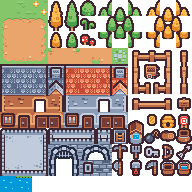
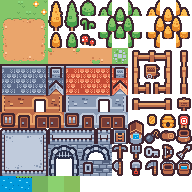
Tonal ground so the village stops reading as a billiard table
Tiny Town ships one grass tile and two flower variants, so ~91% of ~4,800
ground tiles were a single flat green. The existing per-tile hash scattered
wildflowers across it, but scatter is detail, not form: what reads as an
unfinished map is the absence of large-scale tonal variation, and no amount
of confetti fixes that.

`build_assets.py` now derives three tonal grasses from the base tile by
shading it — shadowed, sunlit, and a warmer dry — so they stay exactly on
Kenney's palette rather than being invented colours placed next to it.

The map builder lays them down with smooth value noise (bilinear between
hashed lattice points every 9 tiles, smoothstepped) so tone arrives as
courtyard-sized patches rather than per-tile noise. The wildflower hash still
runs on top, doing the job it was actually good at.

Two passes were needed. The first quantised the noise directly and the four
bands met along straight tile-aligned steps, so the patches rendered as
rectangles — visible immediately on capture. Each tile's tone now takes a
small hash-derived jitter before quantising, which frays those boundaries
while leaving the patch shapes intact, and the shading contrast came down
(0.86/1.10 to 0.90/1.06) so a seam that does survive is quieter.

The noise is deterministic: the village must be identical for every player,
since SPEC §5's adaptive design is the only thing allowed to vary between
sessions.

Verified: BUILD SUCCEEDED; PriorsTests 75/75 in 7 suites; both passes
[…]

Changed region(s): [[0.1562, 0.9062, 0.4375, 1.0]]

diff --git a/Priors/Priors/Priors/Village/VillageMapBuilder.swift b/Priors/Priors/Priors/Village/VillageMapBuilder.swift
@@ -219,7 +219,14 @@ public final class VillageMapBuilder {
         structuresNode.zPosition = 5
         rootNode.addChild(structuresNode)
 
-        // 1. Fill ground with grass (90% lush grass, 10% natural scattered wildflowers)
+        // 1. Fill ground with grass.
+        //
+        // Two scales, because they do different jobs. Low-frequency value
+        // noise lays down broad tonal patches — shadowed hollows, sunlit
+        // rises, dry ground — which is what stops ~4,800 identical tiles
+        // reading as a billiard table. The old per-tile hash is kept on top
+        // for scattered wildflowers, which is detail rather than form; on its
+        // own it was salt-and-pepper over a flat field.
         for r in 0..<Self.mapRows {
             for c in 0..<Self.mapCols {
                 let hashVal = (c * 73 + r * 151) & 0x7FFFFFFF
@@ -229,11 +236,23 @@ public final class VillageMapBuilder {
                 } else if hashVal % 23 == 0 {
                     grassTile = .grassVar2
                 } else {
-                    grassTile = .grass
+                    // Jitter each tile's tone slightly before quantising.
+                    // Without it the four bands meet along straight tile-
+                    // aligned steps and the patches read as rectangles; the
+                    // jitter frays those edges into something organic while
+                    // leaving the underlying patch shape intact.
+                    let jitter = (Double(hashVal % 100) / 100.0 - 0.5) * 0.10
+                    switch Self.groundTone(col: c, row: r) + jitter {
+                    case ..<(-0.18): grassTile = .grassShadow
+                    case 0.22...:    grassTile = .grassSunlit
+                    case 0.06..<0.22: grassTile = .grassDry
+                    default:         grassTile = .grass
+                    }
                 }
                 setGround(c, r, grassTile, code: 0)
             }
         }
+
         _ = assets
 
         // 2. Build Perimeter Boundaries (Dense woods / hedges)
@@ -288,6 +307,37 @@ public final class VillageMapBuilder {
 
     /// A two-tile band of woods around the map, drawn into the canopy layer and
     /// blocked by four rectangles rather than ~560 individual physics bodies.
+    /// Smooth value noise in roughly [-1, 1], deterministic for a given tile.
+    ///
+    /// Bilinear interpolation between hashed lattice points every
+    /// `tonePatchSize` tiles, so tones arrive as patches the size of a
+    /// courtyard rather than as per-tile confetti. Deterministic because the
+    /// village must be identical for every player — SPEC §5's adaptive design
+    /// is the only thing allowed to vary between sessions.
+    private static let tonePatchSize: Double = 9.0
+
+    private static func latticeValue(_ xi: Int, _ yi: Int) -> Double {
+        var h = UInt64(bitPattern: Int64(xi &* 374_761_393 &+ yi &* 668_265_263))
+        h = (h ^ (h >> 13)) &* 1_274_126_177
+        h = h ^ (h >> 16)
+        return Double(h % 2_000) / 1_000.0 - 1.0
+    }
+
+    static func groundTone(col: Int, row: Int) -> Double {
+        let x = Double(col) / tonePatchSize
+        let y = Double(row) / tonePatchSize
+        let x0 = Int(floor(x)), y0 = Int(floor(y))
+        let fx = x - Double(x0), fy = y - Double(y0)
+        // Smoothstep so patch edges are gradients, not seams.
+        let sx = fx * fx * (3 - 2 * fx)
+        let sy = fy * fy * (3 - 2 * fy)
+        let v00 = latticeValue(x0, y0), v10 = latticeValue(x0 + 1, y0)
+        let v01 = latticeValue(x0, y0 + 1), v11 = latticeValue(x0 + 1, y0 + 1)
+        let top = v00 + (v10 - v00) * sx
+        let bottom = v01 + (v11 - v01) * sx
+        return top + (bottom - top) * sy
+    }
+
     private func buildPerimeterBoundaries(in node: SKNode) {
         for c in 0..<Self.mapCols {
             setCanopy(c, 0, .tree)

diff --git a/Priors/Priors/Priors/Village/VillageAssets.swift b/Priors/Priors/Priors/Village/VillageAssets.swift
@@ -46,6 +46,12 @@ public enum TileType: Int, CaseIterable, Sendable {
     case grass = 0
     case grassVar1
     case grassVar2
+    /// Tonal grass, generated by `build_assets.py` from the base tile. Tiny
+    /// Town ships one flat green, so a map filled with it reads as a billiard
+    /// table no matter how much scatter goes on top.
+    case grassShadow
+    case grassSunlit
+    case grassDry
     case pathCenter
     case pathHorizontal
     case pathVertical
@@ -72,6 +78,9 @@ public enum TileType: Int, CaseIterable, Sendable {
         case .grass: return 0
         case .grassVar1: return 1
         case .grassVar2: return 2
+        case .grassShadow: return 134
+        case .grassSunlit: return 135
+        case .grassDry: return 136
         case .pathCenter: return 25
         case .pathHorizontal: return 40
         case .pathVertical: return 41
@@ -213,6 +222,9 @@ public final class VillageAssets {
             let color: UIColor
             switch type {
             case .grass, .grassVar1, .grassVar2: color = .init(red: 0.42, green: 0.75, blue: 0.35, alpha: 1)
+            case .grassShadow: color = .init(red: 0.36, green: 0.64, blue: 0.30, alpha: 1)
+            case .grassSunlit: color = .init(red: 0.48, green: 0.82, blue: 0.40, alpha: 1)
+            case .grassDry: color = .init(red: 0.46, green: 0.70, blue: 0.32, alpha: 1)
             case .pathCenter, .pathHorizontal, .pathVertical: color = .init(red: 0.90, green: 0.72, blue: 0.52, alpha: 1)
             case .water, .waterEdge: color = .init(red: 0.0, green: 0.60, blue: 0.86, alpha: 1)
             case .tree: color = .init(red: 0.20, green: 0.50, blue: 0.25, alpha: 1)

diff --git a/scripts/build_assets.py b/scripts/build_assets.py
@@ -261,12 +261,40 @@ WATER_HI = (118, 228, 255, 255)
 GRASS = (106, 190, 88, 255)
 
 
-def extras_row(width: int) -> Image.Image:
+def shade(img: Image.Image, factor: float, warm: float = 1.0) -> Image.Image:
+    """Scale a tile's brightness, optionally pushing it warmer.
+
+    Used to derive tonal grass from Tiny Town's single grass tile. The pack has
+    one flat green, so a map filled with it reads as a billiard table however
+    much scatter you sprinkle on top.
+    """
+    out = img.copy()
+    px = out.load()
+    for y in range(out.height):
+        for x in range(out.width):
+            r, g, b, a = px[x, y]
+            if a == 0:
+                continue
+            px[x, y] = (min(255, int(r * factor * warm)),
+                        min(255, int(g * factor)),
+                        min(255, int(b * factor / warm)),
+                        a)
+    return out
+
+
+def extras_row(width: int, sheet_img: Image.Image) -> Image.Image:
     """Tiles Tiny Town does not contain, drawn in its palette.
 
-    Only water. The village has a pond, and `r_southeast_pond` is what COPY R7
-    renders as "the pond" — dropping the water would make a landmark the report
-    names stop existing. Generating it is cheaper than making the report lie.
+    Water, because the village has a pond and `r_southeast_pond` is what COPY
+    R7 renders as "the pond" — dropping it would make a landmark the report
+    names stop existing.
+
+    Then three tonal grasses. Tiny Town ships exactly one grass tile and two
+    flower variants, so the ground was ~91% a single flat green. Scatter alone
+    cannot fix that: what the eye reads as an unfinished map is the absence of
+    large-scale tonal variation, not the absence of detail. These three are the
+    base tile shaded, so they stay exactly on-palette, and the map builder
+    lays them down in low-frequency patches rather than per-tile noise.
     """
     row = Image.new("RGBA", (width, TILE), (0, 0, 0, 0))
     d = Image.new("RGBA", (TILE, TILE), WATER_MID)
@@ -283,6 +311,11 @@ def extras_row(width: int) -> Image.Image:
         ep[x, 0] = GRASS
         ep[x, 1] = GRASS if x % 3 else OUTLINE
     row.alpha_composite(e, (TILE, 0))                    # index 133: water edge
+
+    base_grass = tile(sheet_img, 0)
+    row.alpha_composite(shade(base_grass, 0.90), (2 * TILE, 0))              # 134: shadowed
+    row.alpha_composite(shade(base_grass, 1.06), (3 * TILE, 0))              # 135: sunlit
+    row.alpha_composite(shade(base_grass, 0.96, warm=1.08), (4 * TILE, 0))   # 136: dry/warm
     return row
 
 
@@ -294,7 +327,7 @@ def main() -> None:
     #    with an index map, so there is no second place for the grid to go wrong.
     tiles = Image.new("RGBA", (s.width, s.height + TILE), (0, 0, 0, 0))
     tiles.alpha_composite(s, (0, 0))
-    tiles.alpha_composite(extras_row(s.width), (0, s.height))
+    tiles.alpha_composite(extras_row(s.width, s), (0, s.height))
     imageset("TinyTown", tiles)
 
     # 2. Character atlas: 4 columns x 4 rows of 16x16.
